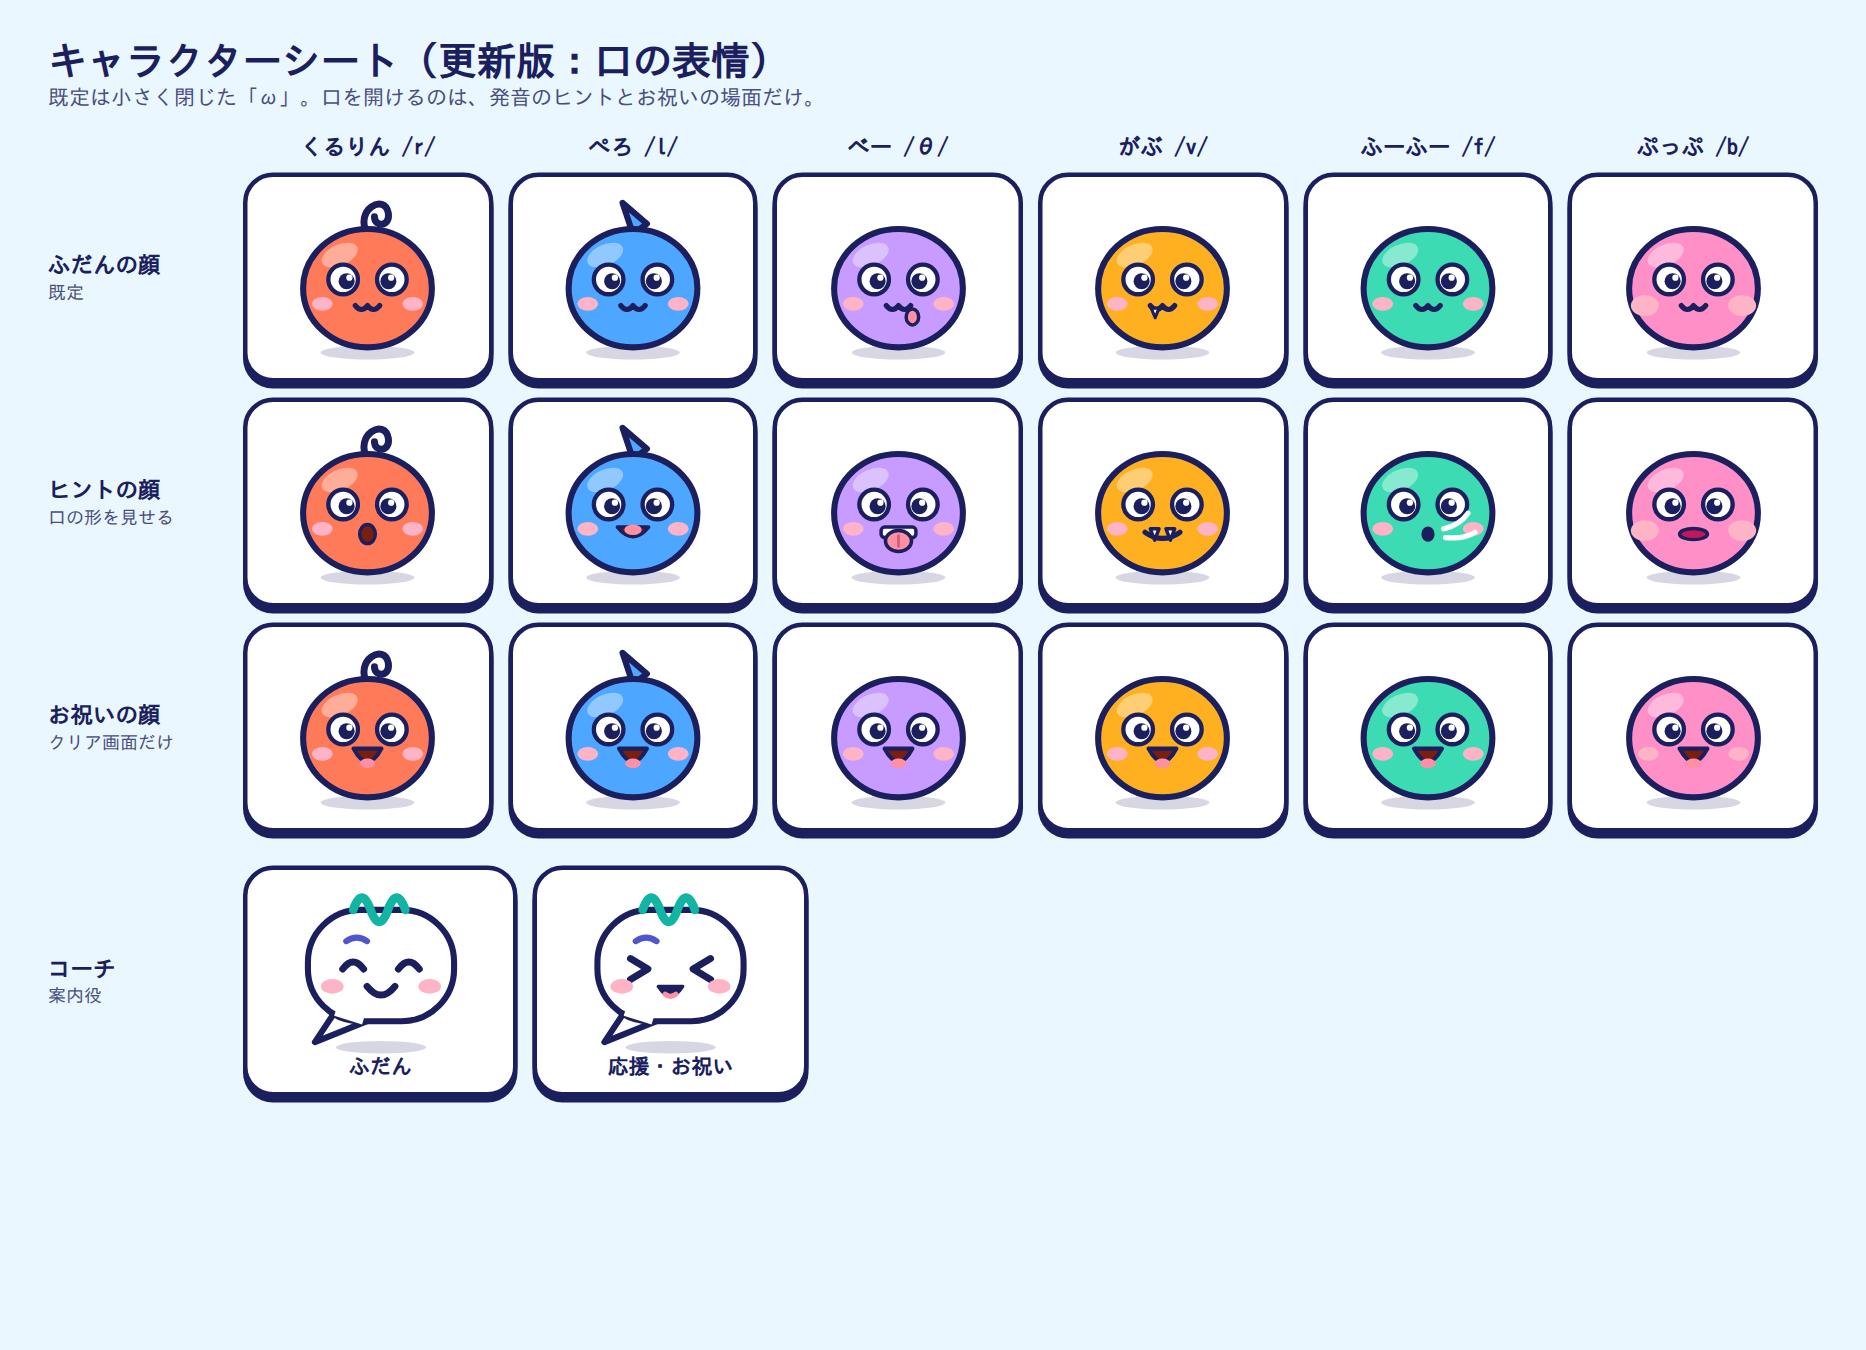
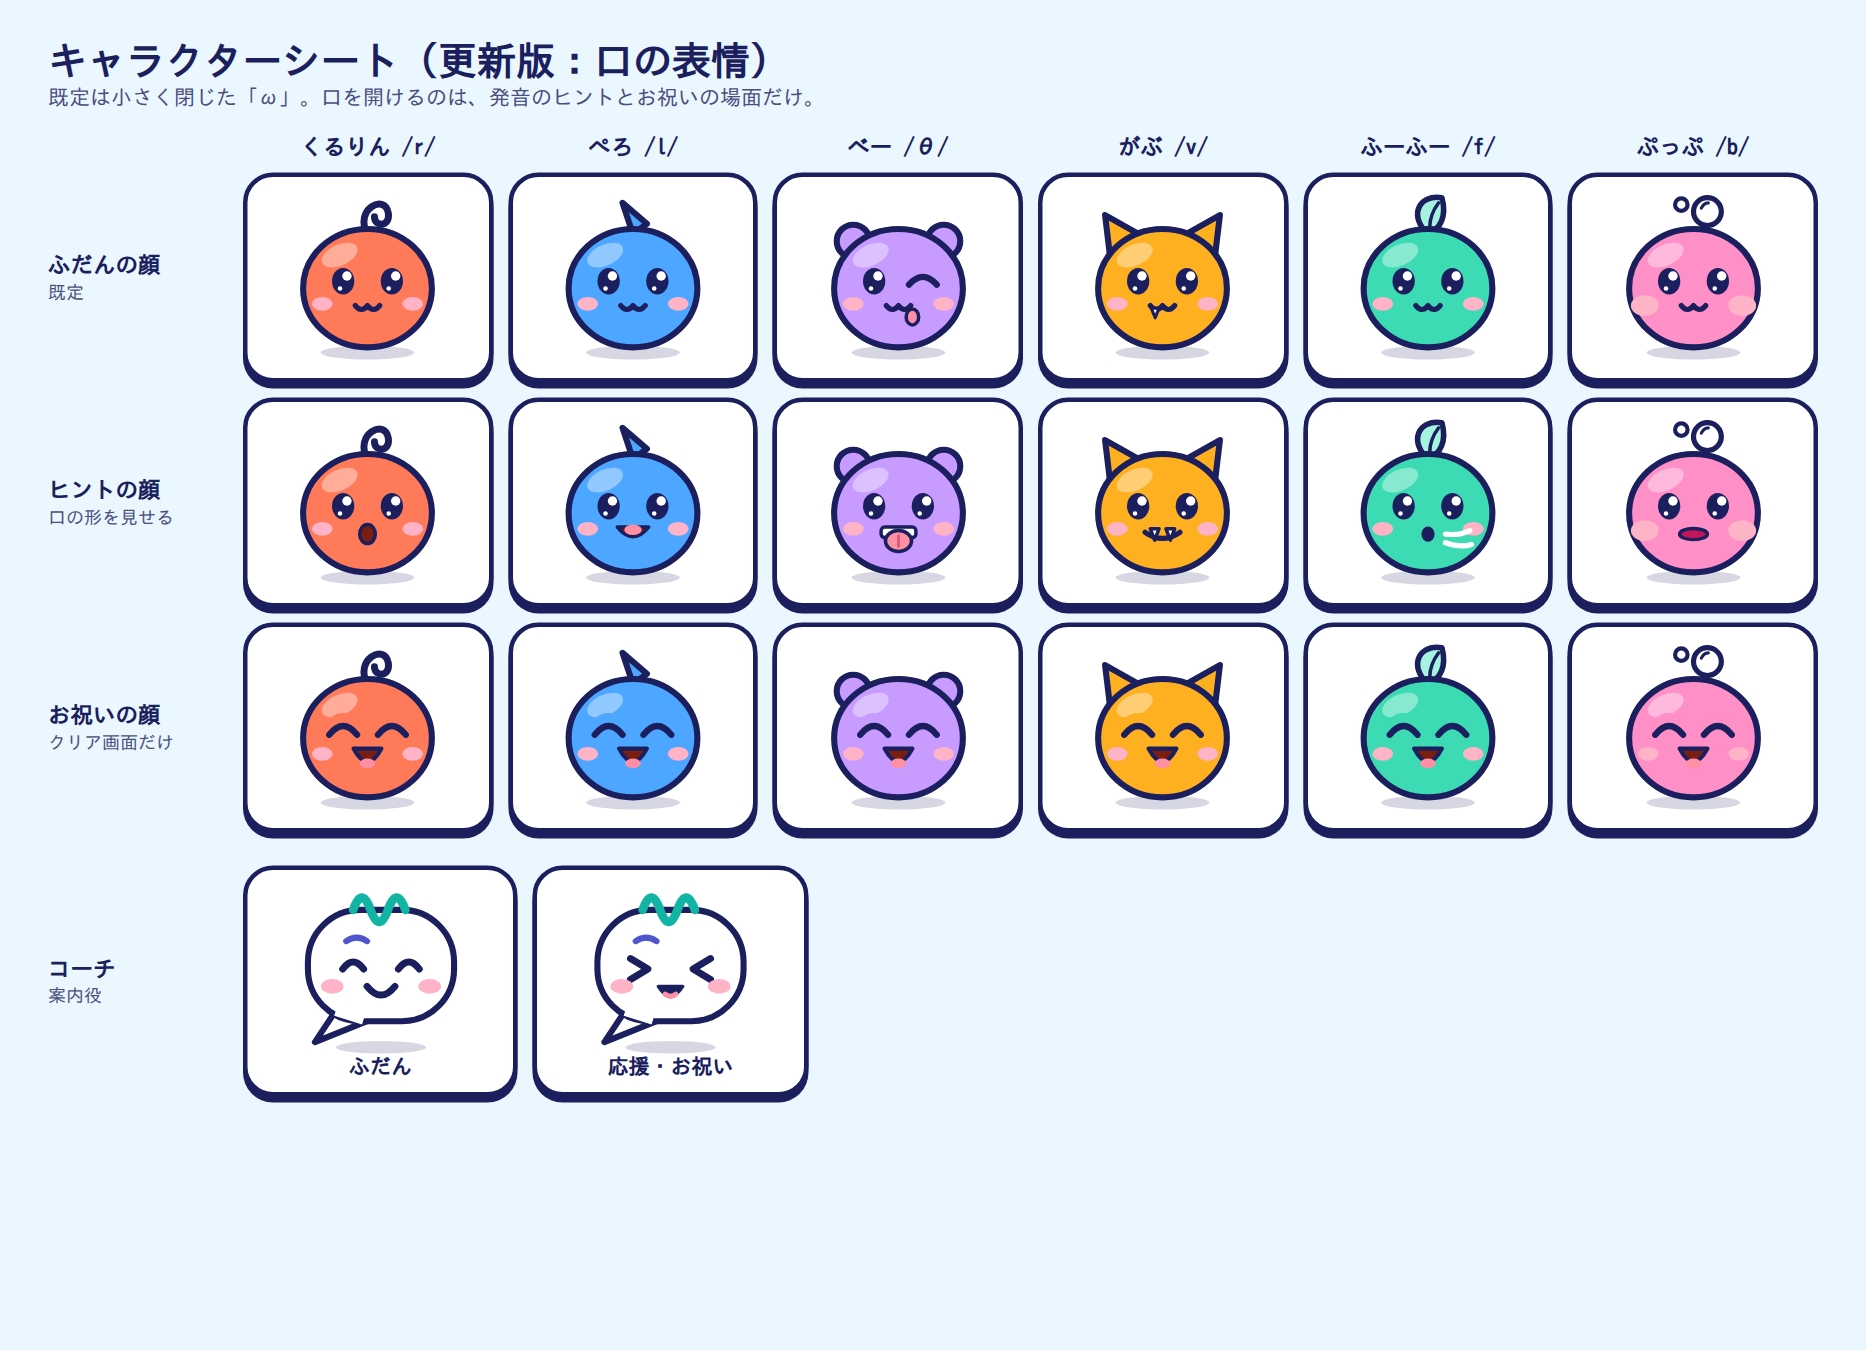
Character audit: glossy solid eyes, distinct silhouettes, wink てへぺろ, ^ ^ joy eyes
Claude-Session: https://claude.ai/code/session_01EWFaWKSHUXd2UJWvLthcj8

diff --git a/design/ui-mockup/Creature.dc.html b/design/ui-mockup/Creature.dc.html
@@ -15,22 +15,38 @@ body{margin:0;background:transparent}
 <div style="width:{{px}};height:{{px}}">
 <svg viewBox="0 0 100 100" width="100%" height="100%" aria-hidden="true">
   <ellipse cx="50" cy="94" rx="27" ry="4" fill="rgba(27,31,94,0.18)"/>
-  <sc-if value="{{isL}}" hint-placeholder-val="{{ false }}">
+
+  <!-- silhouette features (drawn behind the body; also visible on locked entries) -->
+  <sc-if value="{{tL}}" hint-placeholder-val="{{ false }}">
     <path d="M50 26 L44 8 L58 20 Z" fill="{{body}}" stroke="#1B1F5E" stroke-width="3.5" stroke-linejoin="round"/>
   </sc-if>
-  <sc-if value="{{isR}}" hint-placeholder-val="{{ true }}">
+  <sc-if value="{{tR}}" hint-placeholder-val="{{ true }}">
     <path d="M50 26 C42 12 60 2 62 14 C63 22 54 22 54 16" fill="none" stroke="#1B1F5E" stroke-width="4" stroke-linecap="round"/>
   </sc-if>
+  <sc-if value="{{tTH}}" hint-placeholder-val="{{ false }}">
+    <circle cx="24" cy="30" r="9.5" fill="{{body}}" stroke="#1B1F5E" stroke-width="3.5"/><circle cx="76" cy="30" r="9.5" fill="{{body}}" stroke="#1B1F5E" stroke-width="3.5"/>
+  </sc-if>
+  <sc-if value="{{tV}}" hint-placeholder-val="{{ false }}">
+    <path d="M20 40 L17 15 L40 28 Z" fill="{{body}}" stroke="#1B1F5E" stroke-width="3.5" stroke-linejoin="round"/><path d="M80 40 L83 15 L60 28 Z" fill="{{body}}" stroke="#1B1F5E" stroke-width="3.5" stroke-linejoin="round"/>
+  </sc-if>
+  <sc-if value="{{tF}}" hint-placeholder-val="{{ false }}">
+    <path d="M50 26 C39 16 44 3 58 5 C61 16 57 23 50 26 Z" fill="{{leaf}}" stroke="#1B1F5E" stroke-width="3.2" stroke-linejoin="round"/>
+    <path d="M51 22 C51 17 53 12 56 8" fill="none" stroke="#1B1F5E" stroke-width="2" stroke-linecap="round"/>
+  </sc-if>
+  <sc-if value="{{tB}}" hint-placeholder-val="{{ false }}">
+    <circle cx="58" cy="13" r="8" fill="#fff" fill-opacity="0.85" stroke="#1B1F5E" stroke-width="3"/><path d="M54.5 11 q1.5 -3 4 -3" fill="none" stroke="#1B1F5E" stroke-width="1.8" stroke-linecap="round"/><circle cx="43" cy="9" r="3.6" fill="#fff" fill-opacity="0.85" stroke="#1B1F5E" stroke-width="2.4"/>
+  </sc-if>
+
   <ellipse cx="50" cy="57" rx="37" ry="34" fill="{{body}}" stroke="#1B1F5E" stroke-width="3.5"/>
   <sc-if value="{{locked}}" hint-placeholder-val="{{ false }}">
     <text x="50" y="72" text-anchor="middle" font-size="44" font-weight="700" fill="#F4F5FB">?</text>
   </sc-if>
+
   <sc-if value="{{open}}" hint-placeholder-val="{{ true }}">
     <ellipse cx="34" cy="38" rx="11" ry="6" fill="#fff" fill-opacity="0.38" transform="rotate(-24 34 38)"/>
-    <circle cx="36" cy="52" r="8.5" fill="#fff" stroke="#1B1F5E" stroke-width="2.5"/>
-    <circle cx="64" cy="52" r="8.5" fill="#fff" stroke="#1B1F5E" stroke-width="2.5"/>
-    <circle cx="38" cy="53" r="4.6" fill="#1B1F5E"/><circle cx="62" cy="53" r="4.6" fill="#1B1F5E"/>
-    <circle cx="39.6" cy="51" r="1.8" fill="#fff"/><circle cx="63.6" cy="51" r="1.8" fill="#fff"/>
+    <ellipse cx="36" cy="53" rx="6.4" ry="7.6" fill="#1B1F5E"/><ellipse cx="64" cy="53" rx="6.4" ry="7.6" fill="#1B1F5E"/>
+    <circle cx="38.2" cy="50" r="2.7" fill="#fff"/><circle cx="66.2" cy="50" r="2.7" fill="#fff"/>
+    <circle cx="34.2" cy="57.2" r="1.3" fill="#fff"/><circle cx="62.2" cy="57.2" r="1.3" fill="#fff"/>
     <ellipse cx="24" cy="66" rx="6" ry="4" fill="#FFB3C7"/><ellipse cx="76" cy="66" rx="6" ry="4" fill="#FFB3C7"/>
   </sc-if>
 
@@ -39,6 +55,8 @@ body{margin:0;background:transparent}
     <path d="M43 67 q3.5 4.5 7 0 q3.5 4.5 7 0" fill="none" stroke="#1B1F5E" stroke-width="3" stroke-linecap="round" stroke-linejoin="round"/>
   </sc-if>
   <sc-if value="{{restTH}}" hint-placeholder-val="{{ false }}">
+    <circle cx="64" cy="53" r="10.5" fill="{{body}}"/>
+    <path d="M56 55 q8 -9 16 0" fill="none" stroke="#1B1F5E" stroke-width="3.6" stroke-linecap="round"/>
     <ellipse cx="58" cy="73.5" rx="3.6" ry="4.6" fill="#FF8FA3" stroke="#1B1F5E" stroke-width="2"/>
   </sc-if>
   <sc-if value="{{restV}}" hint-placeholder-val="{{ false }}">
@@ -48,8 +66,10 @@ body{margin:0;background:transparent}
     <ellipse cx="22" cy="67" rx="8" ry="6" fill="#FFB3C7"/><ellipse cx="78" cy="67" rx="8" ry="6" fill="#FFB3C7"/>
   </sc-if>
 
-  <!-- joy mouth: small open smile, celebration only -->
+  <!-- joy: happy closed "^ ^" eyes with a small open smile, celebration only -->
   <sc-if value="{{isJoy}}" hint-placeholder-val="{{ false }}">
+    <circle cx="36" cy="53" r="10.5" fill="{{body}}"/><circle cx="64" cy="53" r="10.5" fill="{{body}}"/>
+    <path d="M28 55 q8 -10 16 0 M56 55 q8 -10 16 0" fill="none" stroke="#1B1F5E" stroke-width="3.6" stroke-linecap="round"/>
     <path d="M42 63 Q50 78 58 63 Z" fill="#7A1F10" stroke="#1B1F5E" stroke-width="2.4" stroke-linejoin="round"/>
     <ellipse cx="50" cy="71.5" rx="4.5" ry="2.8" fill="#FF8FA3"/>
   </sc-if>
@@ -73,7 +93,7 @@ body{margin:0;background:transparent}
   </sc-if>
   <sc-if value="{{showF}}" hint-placeholder-val="{{ false }}">
     <ellipse cx="50" cy="69" rx="3.8" ry="4.4" fill="#1B1F5E"/>
-    <path d="M59 66 q9 -2 14 -9 M60 71 q11 1 17 -3" fill="none" stroke="#fff" stroke-width="3" stroke-linecap="round"/>
+    <path d="M60 69 q8 1 14 -2 M60 74 q9 3 15 1" fill="none" stroke="#fff" stroke-width="3" stroke-linecap="round"/>
   </sc-if>
   <sc-if value="{{showB}}" hint-placeholder-val="{{ false }}">
     <ellipse cx="50" cy="69" rx="8" ry="3.2" fill="#C2185B" stroke="#1B1F5E" stroke-width="2"/>
@@ -95,10 +115,15 @@ class Component extends DCLogic {
     return {
       px: size + 'px',
       body: locked ? '#C9CDE0' : (colors[t] || '#FF7A59'),
+      leaf: locked ? '#DDE0EE' : '#A6F3DF',
       locked: locked,
       open: !locked,
-      isR: !locked && t === 'r',
-      isL: !locked && t === 'l',
+      tR: t === 'r',
+      tL: t === 'l',
+      tTH: t === 'th',
+      tV: t === 'v',
+      tF: t === 'f',
+      tB: t === 'b',
       isRest: rest,
       isJoy: !locked && m === 'joy',
       restTH: rest && t === 'th',

diff --git a/docs/game-ui-concept.md b/docs/game-ui-concept.md
@@ -84,6 +84,10 @@ Reviewed 2026-09-29 against common Japanese character-design and emoticon conven
 - **Charm points instead of open mouths at rest:** /θ/ has a small side-tongue てへぺろ, /v/ a single 八重歯 (yaeba, a small fang, widely considered cute in Japan), /b/ puffed cheeks. Tongue-out is playful, not rude, only in this cheeky てへぺろ form.
 - **Coach:** `happy` = ^ ^ eyes with a closed smile; `cheer` = "> <" eyes with a small open smile (the ≧∀≦ joy pattern; do not pair "> <" eyes with a flat or wavy mouth, which reads as pain, ＞＜); `wow` is not used in shipped screens.
 - Never show a downturned or frowning mouth on any character, including on `retry` or low-score feedback.
+- **Eyes:** solid dark glossy eyes with two highlights (きらきら), set low and wide with pink cheeks (baby-schema proportions). White-scleral round eyes were rejected because they read as staring or startled.
+- **Joy face:** closed "^ ^" eyes plus a small open smile, the strongest joy signal in Japanese emoticons and character art.
+- **てへぺろ:** the /θ/ creature winks with a small side tongue; without the wink the tongue reads as drooling.
+- **Distinct silhouettes:** each creature has its own top feature so the 図鑑 entries are recognisable as shadows: /r/ curl, /l/ horn, /θ/ round ears, /v/ pointed ears, /f/ leaf, /b/ bubbles.
 
 ## 6b. Writing rules for all customer-visible Japanese
 
